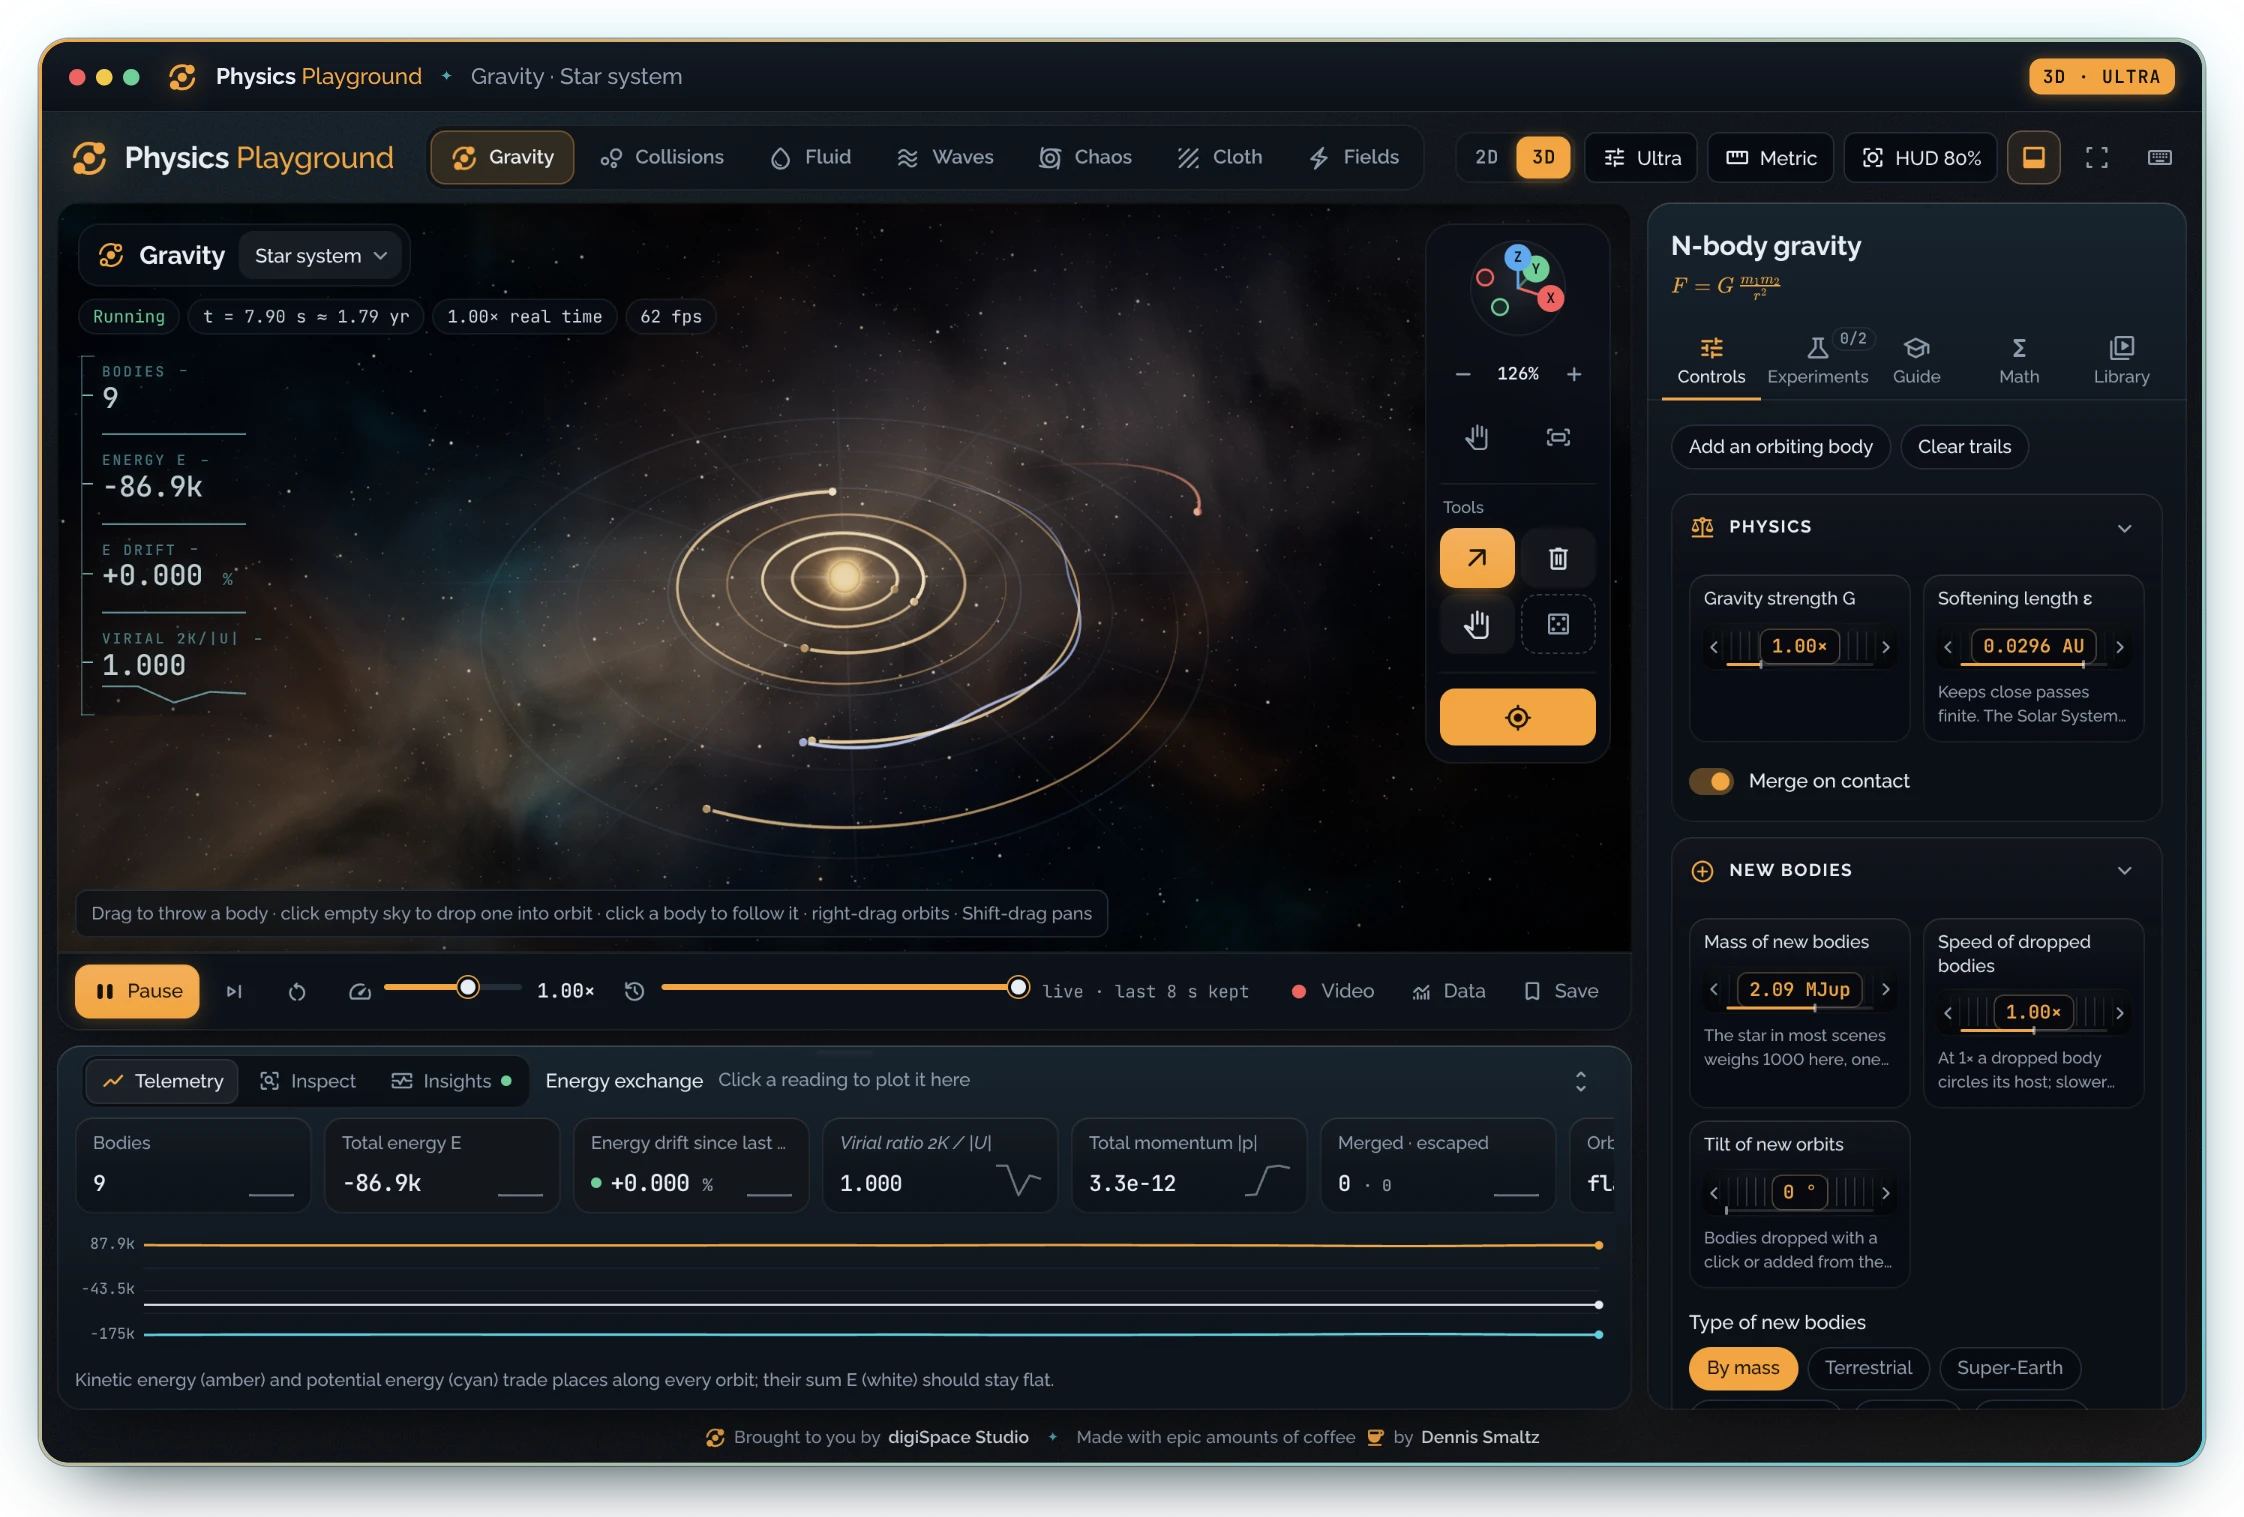
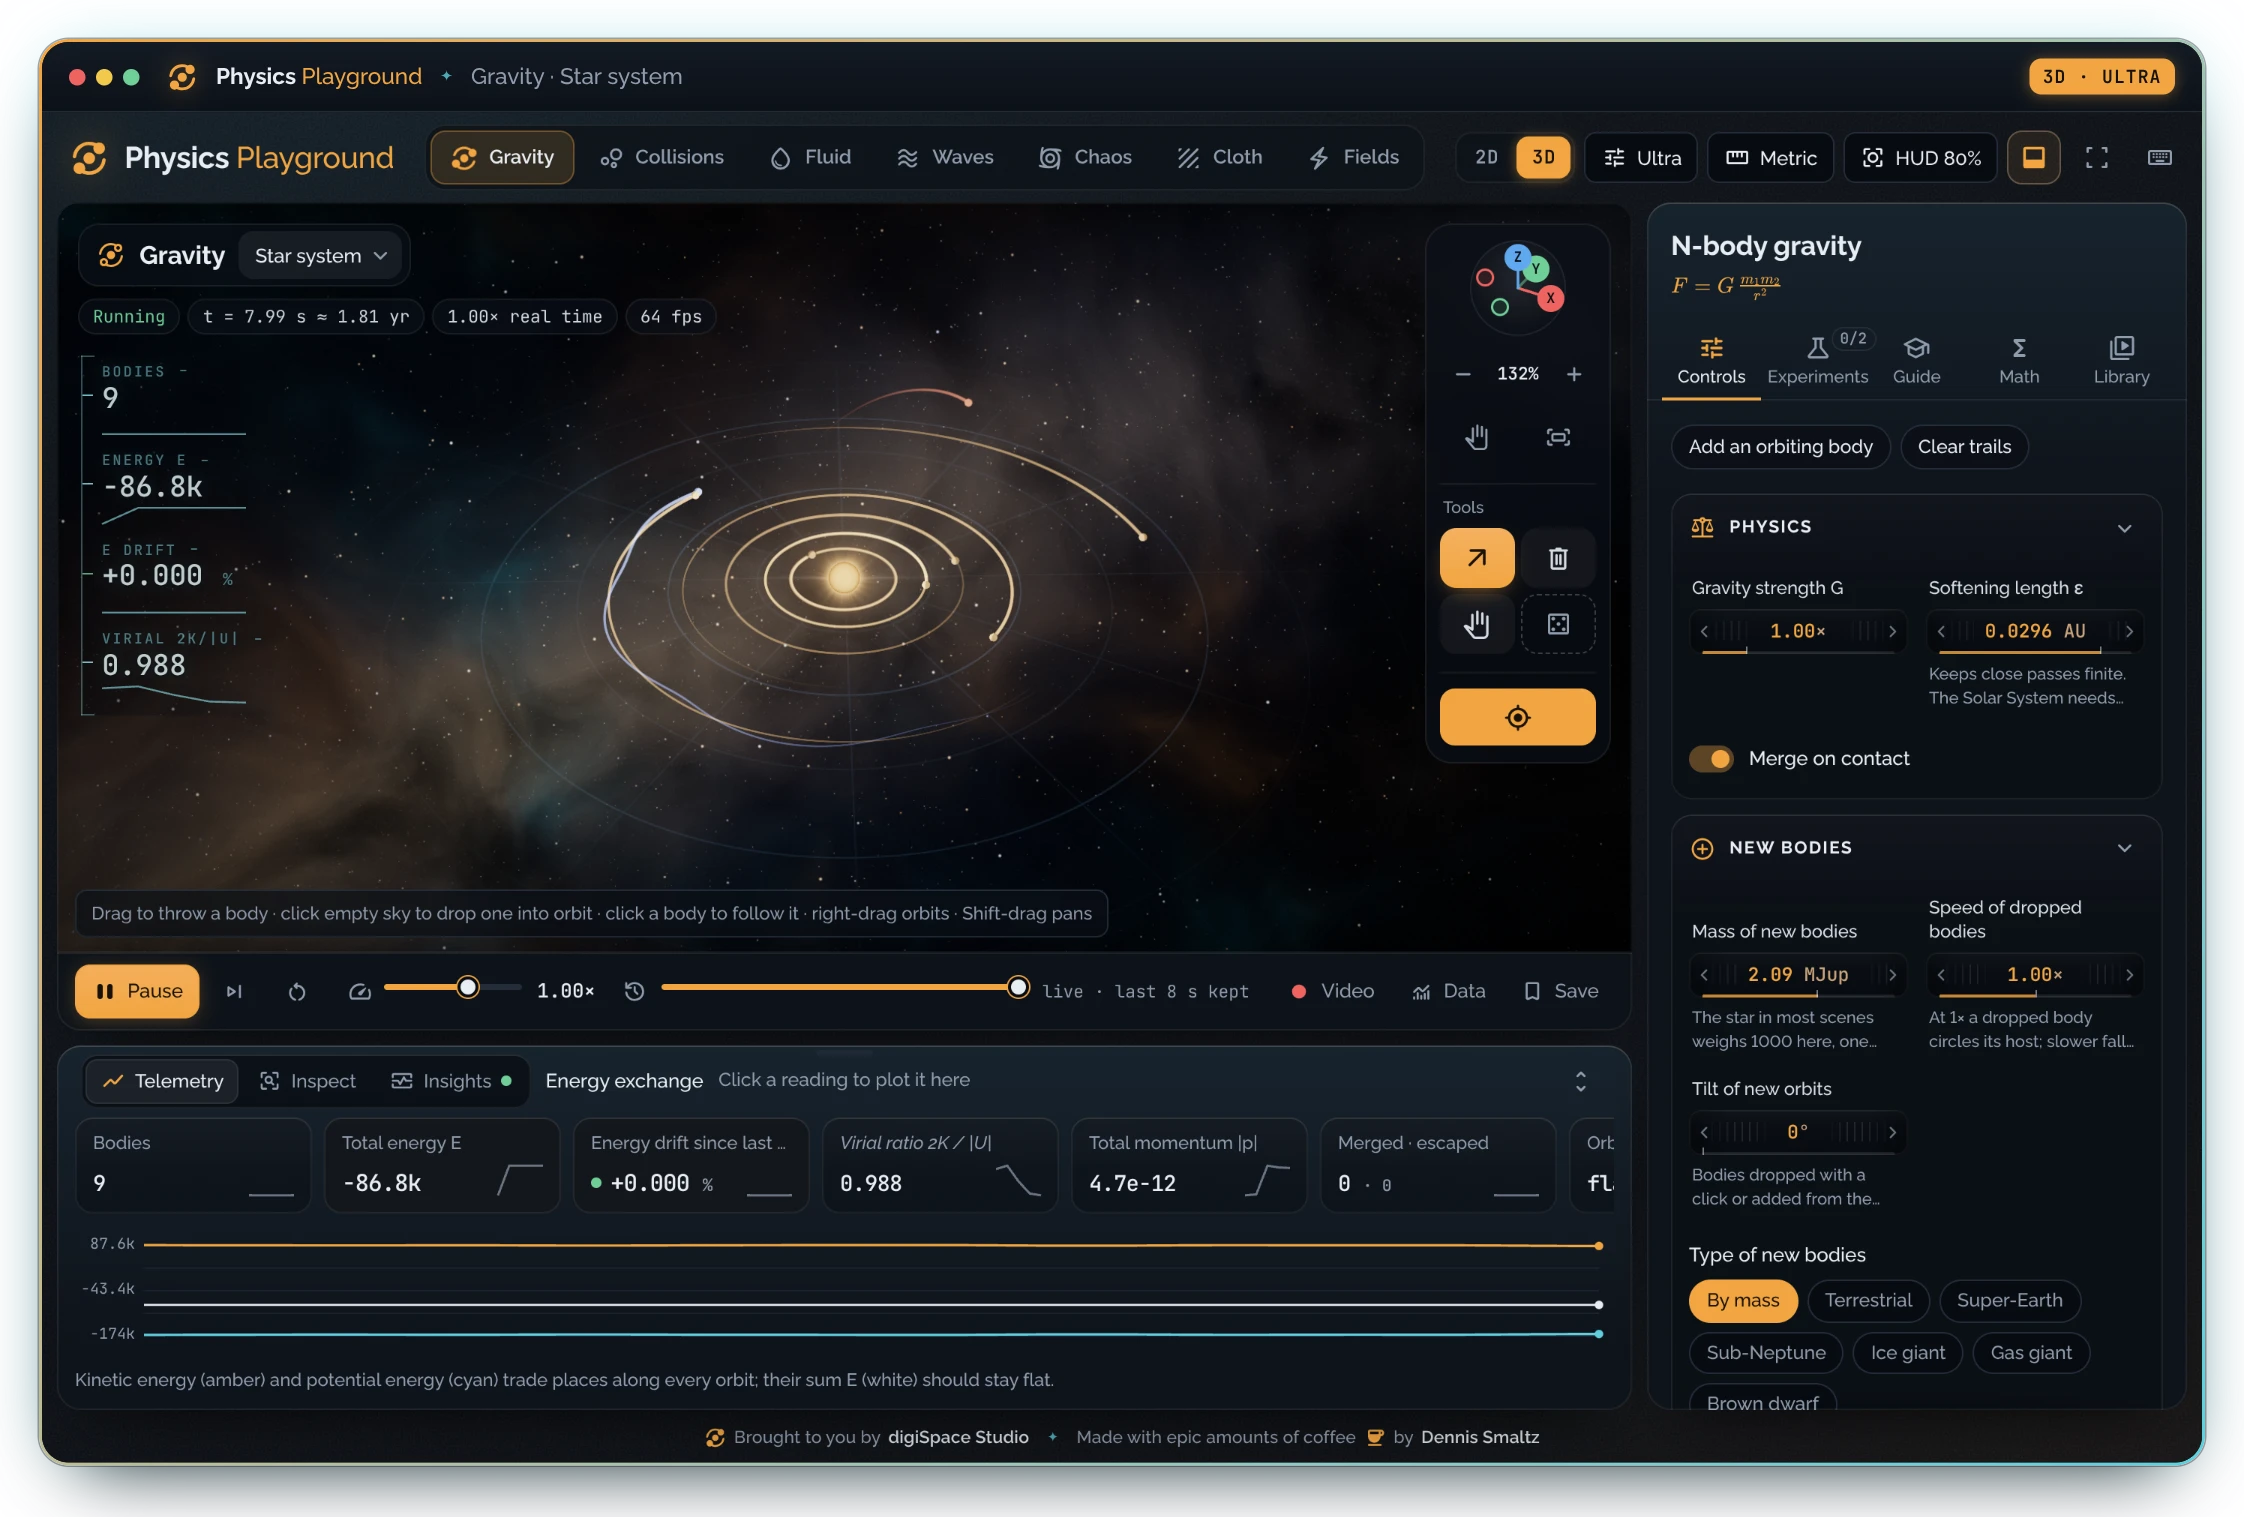
Recapture the hero with the refined dials
The hero is the one README picture that shows the Controls page, so it
is recaptured for 2.11.0. The manifest no longer says the gallery and
the 2D and 3D pair show the dials: they show the stage.

Claude-Session: https://claude.ai/code/session_0127U9NVEHKPsjD4bB32NyRk

diff --git a/docs/media/MANIFEST.md b/docs/media/MANIFEST.md
@@ -1,10 +1,10 @@
 <!--
 ✒ Metadata
-    - Title: README Media Manifest (digiSpace Edition - v2.10)
+    - Title: README Media Manifest (digiSpace Edition - v2.11)
     - File Name: MANIFEST.md
     - Relative Path: docs/media/MANIFEST.md
     - Artifact Type: docs
-    - Version: 2.10.0
+    - Version: 2.11.0
     - Date: 11/14/2026
     - Update: Saturday, November 14, 2026
     - Author: Dennis 'dendogg' Smaltz
@@ -12,6 +12,10 @@
     - Signature: ︻デ═─── ✦ ✦ ✦ | Aim Twice, Shoot Once!
 
 ✒ Changelog:
+    - 2.11.0 (11/14/2026) [dendogg + Anthropic - Claude Opus 5.5] — The hero
+      is recaptured from release 2.11.0 with the refined dials. The gallery
+      and the 2D and 3D pair are no longer said to show the Controls page
+      dials; they show the stage.
     - 2.10.0 (11/14/2026) [dendogg + Anthropic - Claude Opus 5.5] — The Solar
       System pair is recaptured from release 2.10.0: its orbits fade back
       round from each body, the depth marks give way to them, and the close-up
@@ -97,14 +101,17 @@ the change that made them necessary.
 The Solar System pair was captured from release 2.10.0 on 11/14/2026 in the
 same way, about five months into the run (the scene also runs while the page
 boots). Its orbits fade back round from each body, and the close-up's zoom
-reads in short form (41.8k%). The hero was captured from release 2.9.0 on 11/14/2026, headless in
+reads in short form (41.8k%). The hero was captured from release 2.11.0 on 11/14/2026, headless in
 software WebGL on four CPU cores, in metric units. It shows the head-up
-display's readings tape, and the Star system's planets as the gas giants the
-research classes make them, with the planet-class buttons under New bodies.
+display's readings tape, the Star system's planets as the gas giants the
+research classes make them, the planet-class buttons under New bodies, and
+the refined dials: open cells, the value unframed with its unit set back,
+and each row's wheels level.
 The Collisions picture was captured from release 2.7.0 on 11/10/2026 in the
 same way, and shows the target box and callout on the selected cue ball. The Fluid,
 Waves and Fields pictures and the 2D and 3D pair stand from release 2.5.0,
-with the Controls page's dials and the Random dice on the stage rail;
+with the Random dice on the stage rail; they show the stage, not the
+Controls page, so the dials' later refinements do not touch them;
 Chaos and Cloth, whose rails have no dice, from release 2.4.0; and the
 banner, which shows no interface, from release 2.3.0.
 

diff --git a/CHANGELOG.md b/CHANGELOG.md
@@ -121,9 +121,10 @@ size wherever they can, not stacked one on another.
 
 - **ARCHITECTURE:** the dials' anatomy and grid, and the Math page's layout.
 - **README:** the release badge.
-- **Media:** the hero, the lab gallery and the 2D and 3D pair are
+- **Media:** the hero, the one picture that shows the Controls page, is
   recaptured with the new dials, and `docs/media/MANIFEST.md` records the
-  run.
+  run. It no longer says the gallery and the 2D and 3D pair show the
+  dials: they show the stage.
 
 ## 2.10.0 (11/14/2026)
 
